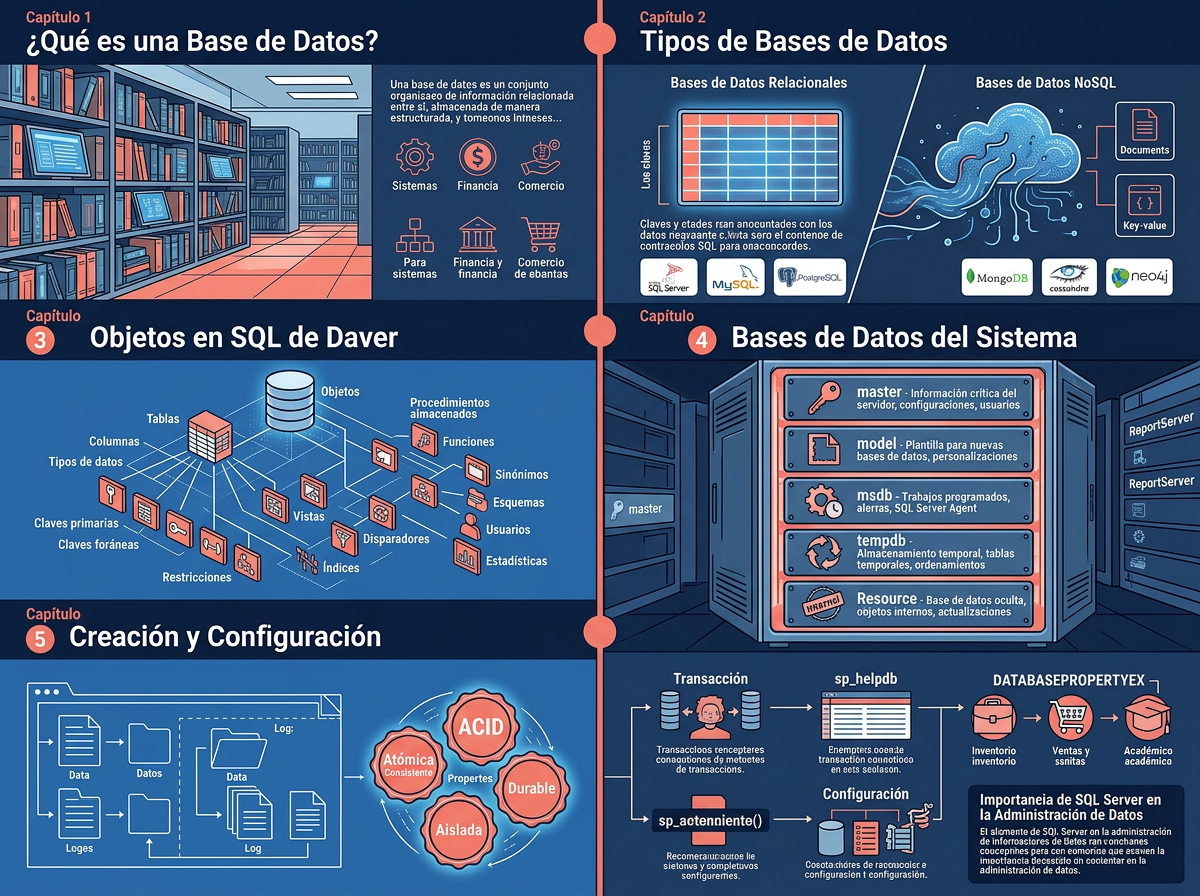
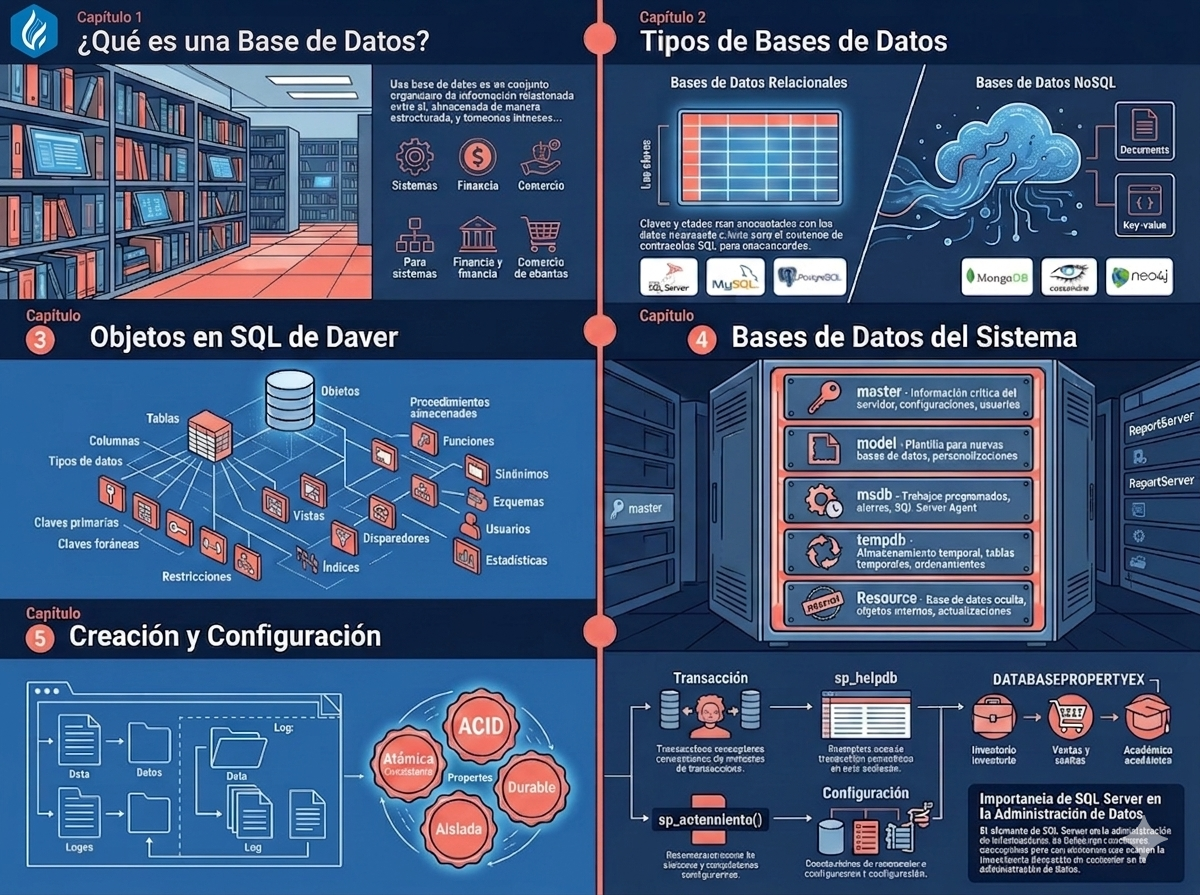
version 10.7.2

diff --git a/Unidades/Unidad2/semana6.html b/Unidades/Unidad2/semana6.html
@@ -217,50 +217,34 @@ iframe{
             componentes principales y uso práctico.
         </p>
 
-        <div class="btn-group-custom mt-4">
+<div class="collapse mt-4" id="resumenImagen">
 
-            <a class="btn-custom"
-            data-bs-toggle="collapse"
-            href="#resumenImagen">
+    <div class="card-main">
 
-                Ver Resumen
-            </a>
+        <h4 class="section-title">
+             Resumen de la Semana
+        </h4>
 
-            <a href="cuestionario6.html" class="btn-custom">
-                Cuestionario
-            </a>
+        <p class="descripcion mb-4">
+            Toca la imagen para abrirla en pantalla completa y hacer zoom.
+        </p>
 
-            <a href="ejercicio6.html" class="btn-custom">
-                Ejercicio Práctico
+        <div class="img-box text-center">
+
+            <a href="../../assets/img/semanas/semana6.png"
+               target="_blank"
+               rel="noopener noreferrer">
+
+                <img src="../../assets/img/semanas/semana6.png"
+                     class="img-fluid rounded-4 resumen-img">
+
             </a>
 
         </div>
 
+    </div>
 
-        <div class="collapse mt-4" id="resumenImagen">
-
-            <div class="card-main">
-
-                <h4 class="section-title">
-                     Resumen de la Semana
-                </h4>
-
-                <div class="img-box text-center">
-
-                    <a href="../../assets/img/semanas/semana6.png"
-                    target="_blank">
-
-                        <img src="../../assets/img/semanas/semana6.png"
-                            class="img-fluid rounded-4 shadow"
-                            style="max-height:650px; cursor:pointer;">
-
-                    </a>
-
-                </div>
-
-            </div>
-
-        </div>
+</div>
 
         <div class="row mt-5">
 